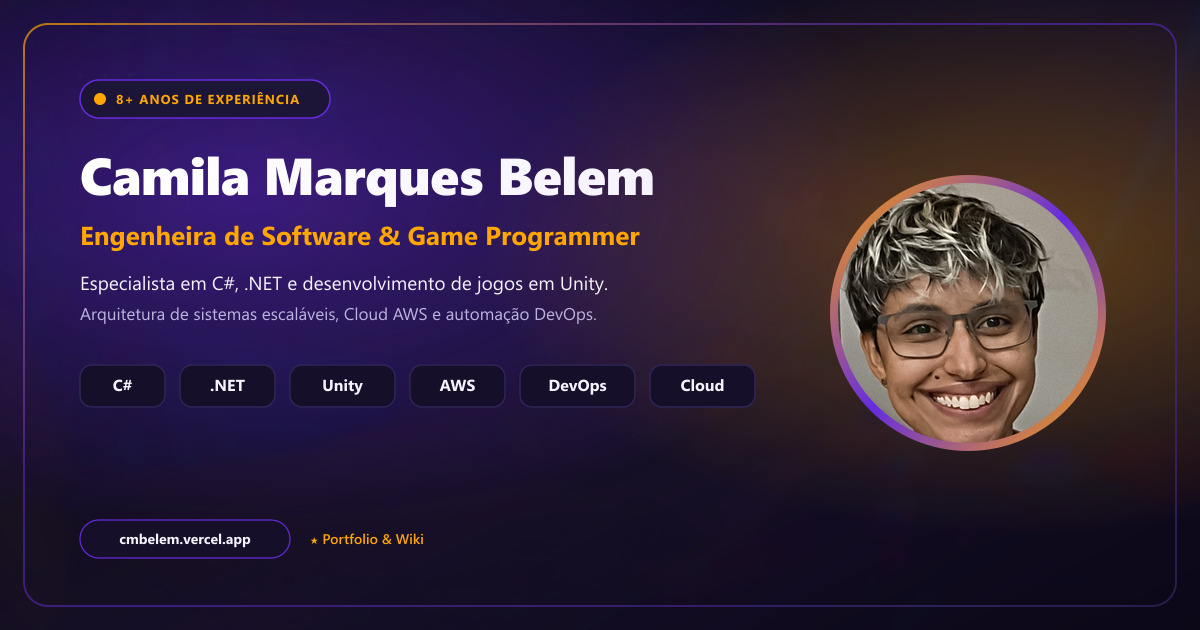
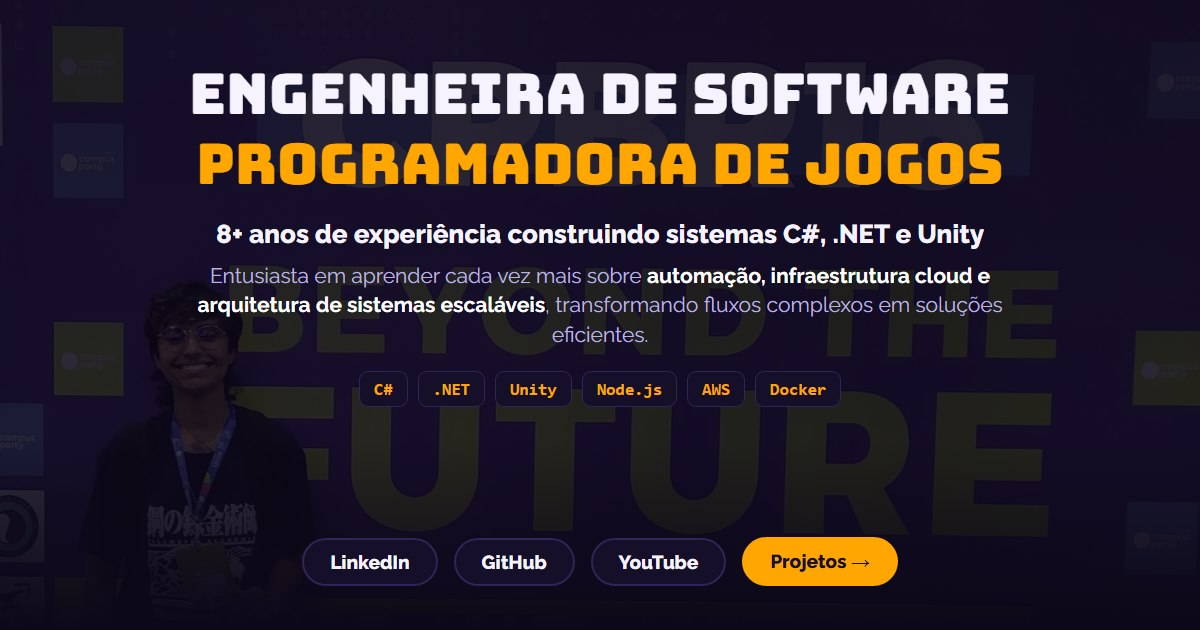
adjusting home

diff --git a/src/components/HomeView.tsx b/src/components/HomeView.tsx
@@ -83,37 +83,31 @@ export function HomeView({ lang }: { lang: Lang }) {
       <Header lang={lang} t={t} current="home" />
       <main id="conteudo">
         <section className="glow-bg dots relative overflow-hidden">
-          <div className="mx-auto max-w-4xl px-4 pb-14 pt-14 text-center md:pt-20">
-            <div className="rise relative mx-auto size-44 sm:size-52">
-              <div
-                className="ring-spin absolute -inset-2 rounded-full"
-                aria-hidden
-              />
-              <Image
-                src="/assets/camila_profile.jpg"
-                alt={AUTHOR.name}
-                width={416}
-                height={416}
-                priority
-                sizes="208px"
-                className="relative size-full rounded-full border-4 border-bg object-cover"
-              />
-              <span className="floaty absolute -right-6 bottom-2 rounded-2xl bg-brand-yellow px-3 py-2 font-display text-xs text-[#17102e] shadow-lg">
-                {copy.badge}
-              </span>
-            </div>
-
+          <div className="absolute inset-0 -z-0" aria-hidden>
+            <Image
+              src="/assets/camila_profile.jpg"
+              alt=""
+              fill
+              priority
+              sizes="100vw"
+              className="object-cover object-[center_40%]"
+            />
+            <div className="absolute inset-0 bg-bg/10 dark:bg-bg/85" />
+            <div className="absolute inset-0 bg-gradient-to-b from-bg/95 via-bg/70 via-45% to-transparent to-65% dark:hidden" />
+            <div className="absolute inset-0 bg-gradient-to-b from-bg/30 via-transparent via-70% to-bg" />
+          </div>
+          <div className="relative mx-auto max-w-4xl px-4 pb-10 pt-12 text-center md:pt-16">
             <h1
-              className="rise font-display mx-auto mt-10 max-w-3xl text-4xl leading-tight sm:text-5xl [&_span]:mt-2 [&_span]:block [&_span]:text-accent"
+              className="rise font-display mx-auto max-w-3xl text-4xl leading-tight sm:text-5xl [&_span]:mt-2 [&_span]:block [&_span]:text-accent"
               dangerouslySetInnerHTML={{ __html: t.hero.title }}
             />
-            <p className="mt-5 text-xl font-bold">{t.hero.lead}</p>
+            <p className="mt-4 text-xl font-bold">{t.hero.lead}</p>
             <p
-              className="mx-auto mt-4 max-w-2xl text-lg text-muted [&_strong]:text-fg"
+              className="mx-auto mt-3 max-w-2xl text-lg text-muted [&_strong]:text-fg"
               dangerouslySetInnerHTML={{ __html: t.hero.description }}
             />
 
-            <ul className="mt-8 flex flex-wrap justify-center gap-2" aria-label={copy.stack}>
+            <ul className="mt-5 flex flex-wrap justify-center gap-2" aria-label={copy.stack}>
               {stack.map((s) => (
                 <li
                   key={s}
@@ -124,55 +118,53 @@ export function HomeView({ lang }: { lang: Lang }) {
               ))}
             </ul>
 
-            <ul className="mt-8 flex flex-wrap justify-center gap-3">
-              {social.map(({ href, label, Icon }) => (
-                <li key={label}>
-                  <a
-                    href={href}
-                    target="_blank"
-                    rel="noopener noreferrer me"
-                    className="inline-flex min-h-12 items-center gap-2 rounded-full border-2 border-line bg-surface px-6 py-3 font-bold transition hover:-translate-y-0.5 hover:border-accent hover:text-accent"
-                  >
-                    <Icon size={18} aria-hidden /> {label}
-                  </a>
-                </li>
-              ))}
-            </ul>
+            {/* Espaço aberto para o rosto aparecer na foto de fundo */}
+            <div className="h-32 sm:h-40 md:h-44" aria-hidden />
 
-            <div className="mt-6 flex flex-wrap items-center justify-center gap-5">
+            <div className="flex flex-wrap items-center justify-center gap-3">
+              {social.map(({ href, label, Icon }) => (
+                <a
+                  key={label}
+                  href={href}
+                  target="_blank"
+                  rel="noopener noreferrer me"
+                  className="inline-flex min-h-11 items-center gap-2 rounded-full border-2 border-line bg-surface px-5 py-2 font-bold transition hover:-translate-y-0.5 hover:border-accent hover:text-accent"
+                >
+                  <Icon size={18} aria-hidden /> {label}
+                </a>
+              ))}
               <Link
                 id="hero-projects"
                 href="#projects"
-                className="inline-flex min-h-12 items-center gap-2 rounded-full bg-accent px-6 py-3 font-bold text-accent-fg shadow-lg shadow-accent/25 transition hover:-translate-y-0.5"
+                className="inline-flex min-h-11 items-center gap-2 rounded-full bg-accent px-5 py-2 font-bold text-accent-fg shadow-lg shadow-accent/25 transition hover:-translate-y-0.5"
               >
                 {t.nav.projects} <ArrowRight size={18} aria-hidden />
               </Link>
               <Link
                 href={paths.wiki(lang)}
-                className="inline-flex items-center gap-2 font-bold text-accent"
+                className="inline-flex items-center gap-2 px-2 font-bold text-accent"
               >
                 <BookOpen size={18} aria-hidden /> {t.nav.wiki}
               </Link>
             </div>
           </div>
-
-          <div className="mx-auto max-w-4xl px-4 pb-16">
+          <div className="relative mx-auto max-w-3xl px-4 pb-10">
             <a
               id="gamedev-banner"
               href={AUTHOR.gamedev}
               target="_blank"
               rel="noopener noreferrer"
-              className="card-hover flex flex-col items-start gap-4 rounded-3xl border border-line bg-surface p-6 sm:flex-row sm:items-center"
+              className="card-hover flex flex-col items-start gap-3 rounded-2xl border border-line bg-surface px-4 py-3 sm:flex-row sm:items-center"
             >
-              <span className="grid size-14 shrink-0 place-items-center rounded-2xl bg-brand-purple text-white">
-                <Gamepad2 size={28} aria-hidden />
+              <span className="grid size-9 shrink-0 place-items-center rounded-xl bg-brand-purple text-white">
+                <Gamepad2 size={18} aria-hidden />
               </span>
               <span className="flex-1">
-                <span className="font-display block text-lg">{copy.gamedevTitle}</span>
-                <span className="mt-1 block text-muted">{copy.gamedevText}</span>
+                <span className="font-display block text-sm">{copy.gamedevTitle}</span>
+                <span className="block text-sm text-muted">{copy.gamedevText}</span>
               </span>
-              <span className="inline-flex items-center gap-2 font-bold text-accent">
-                {copy.gamedevCta} <ExternalLink size={16} aria-hidden />
+              <span className="inline-flex items-center gap-2 text-sm font-bold text-accent">
+                {copy.gamedevCta} <ExternalLink size={14} aria-hidden />
               </span>
             </a>
           </div>
